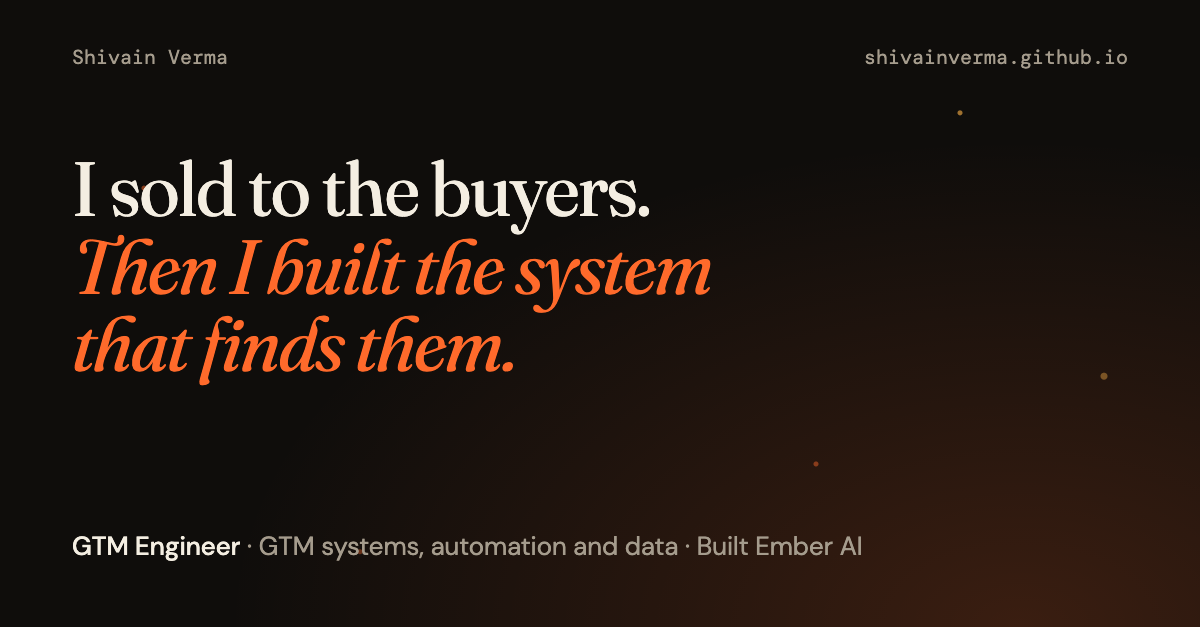
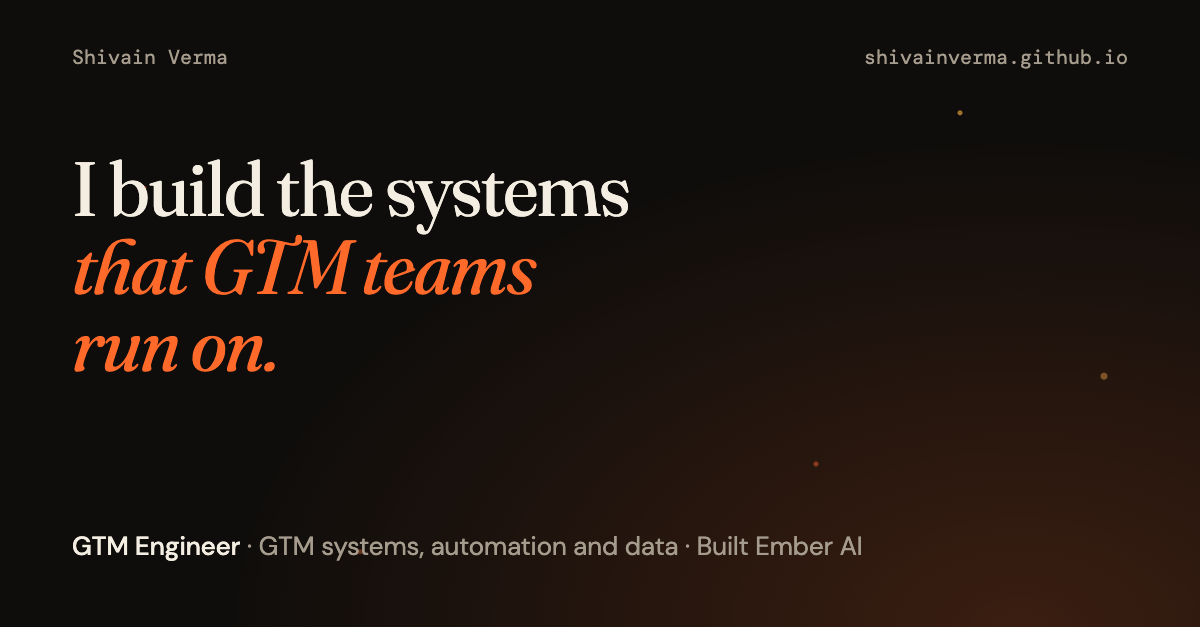
Lead with GTM systems, not sales

Changed region(s): [[0.0617, 0.2424, 0.6167, 0.6061]]

diff --git a/index.html b/index.html
@@ -4,7 +4,7 @@
 <meta charset="utf-8">
 <meta name="viewport" content="width=device-width, initial-scale=1">
 <title>Shivain Verma | GTM Engineering</title>
-<meta name="description" content="Shivain Verma sold to the buyers, then built the system that finds them. GTM systems, automation and data, Bengaluru.">
+<meta name="description" content="Shivain Verma builds the systems GTM teams run on: lead data, enrichment, scoring and automation. Bengaluru.">
 <meta property="og:title" content="Shivain Verma | GTM Engineering">
 <meta property="og:description" content="300 million people in. 50 ranked leads out. See the system.">
 <meta property="og:type" content="website">
@@ -155,7 +155,7 @@ html{scroll-behavior:auto}
 
 <main id="top">
 <section class="hero wrap">
-  <h1><span><i>I sold to the buyers.</i></span><span><i>Then I built the system that finds them.</i></span></h1>
+  <h1><span><i>I build the systems</i></span><span><i>that GTM teams run on.</i></span></h1>
   <p class="sub">GTM systems, automation and data, based in Bengaluru. Move your cursor through the sparks, then keep scrolling to watch 300 million people become 50 leads.</p>
   <p class="cue">Scroll <b>↓</b></p>
 </section>
@@ -197,7 +197,7 @@ html{scroll-behavior:auto}
 </div></section>
 
 <section class="block solid"><div class="wrap">
-  <p class="label rv">Next build</p>
+  <p class="label rv">Replies</p>
   <h2 class="rv">Every reply, <em>sorted.</em></h2>
   <p class="sub rv">The next layer reads each reply and acts on it, so a warm prospect never waits. Pick a reply, or type your own.</p>
   <div class="router rv">
@@ -207,14 +207,14 @@ html{scroll-behavior:auto}
     </div>
     <div class="lanes" id="lanes"></div>
   </div>
-  <p class="note rv">This page uses simple keyword rules to show the idea. In Ember AI, Claude reads each real reply, sorts it into one of seven labels, stops follow-ups and answers interested replies in the same thread.</p>
+  <p class="note rv">This page uses simple keyword rules to show the idea. In Ember AI, Claude reads each real reply, sorts it into one of eight labels, stops follow-ups and answers interested replies in the same thread.</p>
 </div></section>
 
 <div class="tape" aria-hidden="true"><div id="tape"></div></div>
 
 <section class="block" id="path"><div class="wrap">
   <p class="label rv">Path</p>
-  <h2 class="rv">From cold calls <em>to systems.</em></h2>
+  <h2 class="rv">Inside the teams, <em>then building for them.</em></h2>
   <div class="timeline" id="timeline">
     <div class="tl-fill" id="tlFill"></div>
     <article class="job rv"><h3>GTM project: Ember AI</h3><div class="meta">2026 · Portfolio project · Made-up client</div><p>Built Ember AI, a Claude plugin that runs cold outbound from start to finish. It scores leads, researches each company, writes and checks a four email sequence, sends through Gmail, reads replies and answers them. Tested on real leads from Clay for a made-up client, with every email going to my own test inbox.</p></article>
@@ -232,7 +232,7 @@ html{scroll-behavior:auto}
 
 <section class="block solid end" id="hello"><div class="wrap">
   <p class="label rv">Hello</p>
-  <h2 class="rv">Got a pipeline to <em>fill?</em></h2>
+  <h2 class="rv">Got a GTM system to <em>build?</em></h2>
   <a class="big rv" href="mailto:shivainverma555@gmail.com">shivainverma555@gmail.com</a>
   <div class="links rv"><a href="https://www.linkedin.com/in/shivainverma">LinkedIn</a><a href="https://github.com/ShivainVerma">GitHub</a></div>
 </div></section>
